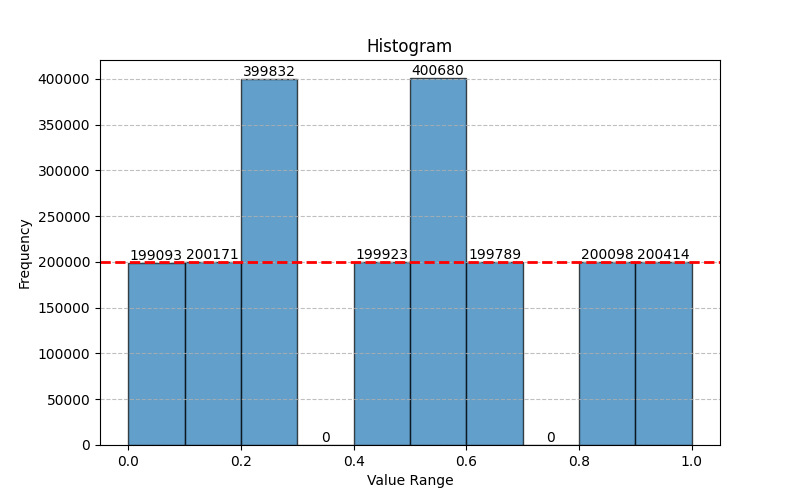
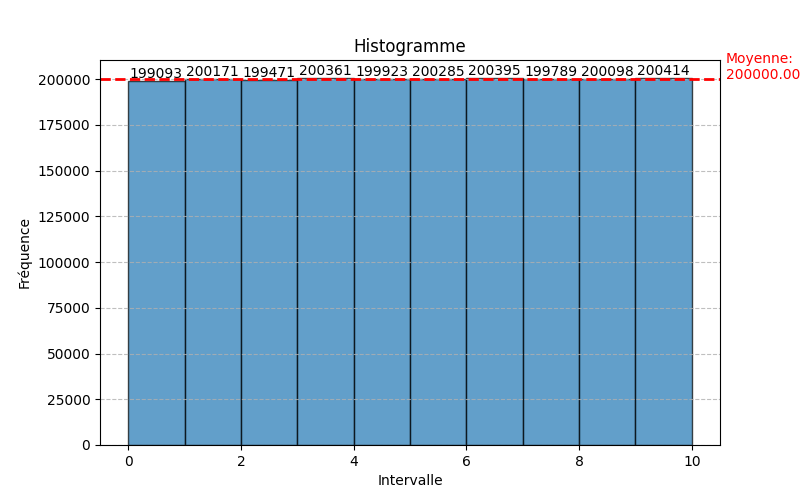
We needed more french in the print, title,... and also i change the khi_square so you just need to give the histogram and not a list

diff --git a/src/tests/kolmogorov_smirnov.py b/src/tests/kolmogorov_smirnov.py
@@ -9,9 +9,7 @@ class KolmogorovSmirnov:
      
     """
     
-    More informations:
-        H0: If KS > critical value -> The distribution follow the uniform law
-        H1: If KS <= critical value -> The distribution does not follow the uniform law
+
     """
     
     @staticmethod
@@ -23,50 +21,56 @@ class KolmogorovSmirnov:
             data (list): A list of observed values.
             alpha (float): Significance level (default is 0.05).
 
-        Prints:
-            Decision whether to reject or not reject H0.
+        More informations:
+            H0: If Dn ≤ critical value -> The distribution follow the uniform law (good). 
+            H1: If Dn > critical value -> The distribution does not follow the uniform law (not good).
         """
         
-        degree_freedom = len(data) - 1
+        degree_freedom = len(data)
         
         ks_value = KolmogorovSmirnov.compute(data = data)
         
         critical_value = stats.kstwo.ppf(1 - alpha, degree_freedom)
         
         if ks_value <= critical_value :
-            print("Distribution is close to uniform so it's good")
+            print("Verily, the distribution is well-balanced, as though guided by divine order !")
         else:
-            print("Distribution significantly differs from uniform so it's a big NO NO")
+            print("Verily, the distribution is corrupted and uneven, for the Deceiver hath sown disorder among the number !")
     
     
     @staticmethod
-    def compute(data: list) -> tuple:
+    def compute(data: list, save_plot: bool = True) -> tuple:
+        
         data = np.sort(data)
+        
         size = len(data)
-        count_values = Counter(data)
+        
+        count_values = dict(sorted(Counter(data).items()))
 
-        relative_frequency = np.array(list(count_values.values())) / size
+        observed_frequency = np.array(list(count_values.values())) / size
         
-        observed_distribution = np.cumsum(relative_frequency)
+        observed_cumulative_frequency = np.cumsum(observed_frequency)
         
-        theorical_distribution = np.arange(1, len(observed_distribution) + 1) / size
+        theorical_cumulative_frequency = np.arange(1, len(observed_cumulative_frequency) + 1) / len(observed_cumulative_frequency)
         
-        absolute_difference = np.abs(observed_distribution - theorical_distribution)
+        absolute_difference = np.abs(observed_cumulative_frequency - theorical_cumulative_frequency)
         
         max_diff_index = np.argmax(absolute_difference)
         
         ks_statistic = absolute_difference[max_diff_index]
 
-        KolmogorovSmirnov.__save_plot(list(count_values.keys()), 
-                                    observed_distribution = observed_distribution, 
-                                    theorical_distribution = theorical_distribution,
-                                    max_diff_index = max_diff_index
-                                    )
+        if (save_plot):
+            KolmogorovSmirnov.__save_plot(list(count_values.keys()), 
+                                        observed_cumulative_frequency = observed_cumulative_frequency, 
+                                        theorical_cumulative_frequency = theorical_cumulative_frequency,
+                                        max_diff_index = max_diff_index,
+                                        ks_statistic = ks_statistic
+                                        )
         
         return ks_statistic
     
     @staticmethod
-    def __save_plot(unique_values, observed_distribution, theorical_distribution, max_diff_index) -> None:
+    def __save_plot(unique_values, observed_cumulative_frequency, theorical_cumulative_frequency, max_diff_index, ks_statistic) -> None:
         """
         Plots the empirical CDF and the expected uniform CDF.
 
@@ -75,16 +79,20 @@ class KolmogorovSmirnov:
         """
 
         plt.figure(figsize=(8, 5))
-        plt.step(unique_values, observed_distribution, where="post", label="Empirical CDF", color="blue")
-        plt.plot(unique_values, theorical_distribution, linestyle="--", label="Theoretical CDF", color="red")
-
         
-        plt.vlines(unique_values[max_diff_index], theorical_distribution[max_diff_index], observed_distribution[max_diff_index], 
-                   colors="black", linestyles="dashed", label="Max Difference (D)")
+        plt.step(unique_values, observed_cumulative_frequency, where="post", label="Fréquence cumulée observée", color="blue")
+        
+        plt.plot(unique_values, theorical_cumulative_frequency, linestyle="--", label="Fréquence cumulée théorique", color="red")
+        
+        plt.annotate("", xy=(unique_values[max_diff_index], observed_cumulative_frequency[max_diff_index]), xytext=(unique_values[max_diff_index], theorical_cumulative_frequency[max_diff_index]),
+             arrowprops=dict(arrowstyle="<->", color='black', lw=2))
+        
+        plt.text(unique_values[max_diff_index], (observed_cumulative_frequency[max_diff_index] + theorical_cumulative_frequency[max_diff_index]) / 2, f' D={ks_statistic:.3f}', color='black', fontsize=12, 
+         verticalalignment='center', horizontalalignment='right')
 
-        plt.xlabel("Value Range")
-        plt.ylabel("Cumulative Probability")
-        plt.title("Kolmogorov-Smirnov Test: Empirical vs. Uniform CDF")
+        plt.xlabel("Intervalle")
+        plt.ylabel("Fréquence cumulée")
+        plt.title("Test de Kolmogorov-Smirnov")
         plt.legend()
         plt.grid()
 

diff --git a/src/tests/khi_square.py b/src/tests/khi_square.py
@@ -1,4 +1,5 @@
 import scipy.stats as stats
+from histogram import Histogram
 
 class KhiSquareTest:
     """
@@ -9,29 +10,33 @@ class KhiSquareTest:
     """
     
     @staticmethod
-    def is_goodness_fit(hist: list, alpha: float = 0.05) -> None:
+    def is_goodness_fit(histogram: Histogram, alpha: float = 0.05) -> None:
         """
         Computes the Chi-Square statistic for a given histogram and determine if
         the frequencies are following a the uniform law
 
         Args:
-            hist (list): A list of observed frequencies for each interval.
+            histogram (Histogram): A object containing usefull information like the frequency for each interval, the mean, etc.
+            alpha (float): The significance level used to determine the critical value for rejecting the H0. 
 
         Returns:
             float: The Chi-Square test statistic.
             
         More informations:
-            H0: If χ² ≤ critical value -> The distribution is close to uniform (good). 
-            H1: If X² > critical value -> The distribution significantly differs from uniform (not good).
+            H0: If χ² ≤ critical value -> The distribution follow the uniform law (good). 
+            H1: If X² > critical value -> The distribution does not follow the uniform law (not good).
 
         """
         
-        degree_freedom = len(hist) - 1
+        degree_freedom = histogram.num_interval - 1
         
-        chi_square = KhiSquareTest.compute(hist=hist)
+        expected = [histogram.mean] * histogram.num_interval
+        
+        chi_square = KhiSquareTest.compute(observed = histogram.observed, expected = expected)
         
         critical_value = stats.chi2.ppf(1 - alpha, degree_freedom)
         
+        print(chi_square, critical_value)
         if chi_square <= critical_value :
             print("Verily, the distribution is well-balanced, as though guided by divine order !")
         else:
@@ -39,45 +44,28 @@ class KhiSquareTest:
         
         
     @staticmethod
-    def compute(hist: list) -> float:
+    def compute(observed: list, expected: list) -> float:
         """
         Computes the Chi-Square statistic for a given histogram, assuming 
         a uniform expected distribution.
 
         Args:
-            hist (list): A list of observed frequencies for each interval.
+            observed (list): A list of observed frequencies for each interval.
+            expected (list): A list of expected frequencies for each interval.
 
         Returns:
             float: The Chi-Square test statistic.
 
         Example:
             >>> khi_test = KhiSquareTest()
-            >>> khi_test.from_distribution([10, 15, 12, 13])
+            >>> khi_test.compute([10, 15, 12, 13], [12.5, 12.5, 12.5, 12.5])
             1.04
-        """
-        
-        interval_nb = len(hist) 
-        total_obs = sum(hist)
-        expected = [total_obs / interval_nb] * interval_nb
-
-        return KhiSquareTest.__chi_square_stat(hist, expected)
-
-    @staticmethod
-    def __chi_square_stat(hist: list, expected: list):
-        """
-        Computes the Chi-Square statistic given observed and expected frequencies.
-
-        Args:
-            hist (list): A list of observed frequencies.
-            expected (list): A list of expected frequencies.
-
-        Returns:
-            float: The Chi-Square test statistic.
         """
         
         chi_square = 0
         
-        for observed, expected in zip(hist, expected):
+        for observed, expected in zip(observed, expected):
             chi_square += ((observed - expected) ** 2) / expected
-            
+        
         return chi_square
+        

diff --git a/src/histogram.py b/src/histogram.py
@@ -36,7 +36,7 @@ class Histogram:
         self.num_interval = num_interval
         self.range_min = range_min
         self.range_max = range_max
-        self.hist = [0] * num_interval
+        self.observed = [0] * num_interval
         self.mean = len(self.data)/self.num_interval
         
         self._create()
@@ -59,7 +59,7 @@ class Histogram:
             if index >= self.num_interval:
                 index = -1
 
-            self.hist[index] += 1
+            self.observed[index] += 1
         
             
     def save_plot(self, plot_type: PlotType = PlotType.HiSTOGRAM) -> None:
@@ -83,21 +83,21 @@ class Histogram:
         
         categories = [str(i/devider) for i in range(self.range_min, self.range_max)]
         
-        bars = plt.bar(categories, self.hist, edgecolor="black", alpha=0.7)
+        bars = plt.bar(categories, self.observed, edgecolor="black", alpha=0.7)
 
         for bar in bars:
             height = bar.get_height()
             plt.text(bar.get_x() + bar.get_width() / 2, height + 0.5,
                     str(height), ha='center', va='bottom', fontsize=10)
 
-        plt.xlabel("Values")
-        plt.ylabel("Frequency")
-        plt.title("Bar Chart")
+        plt.xlabel("Valeur")
+        plt.ylabel("Fréquence")
+        plt.title("Répartition des décimales")
         plt.grid(axis="y", linestyle="--", alpha=0.8)
 
         plt.axhline(self.mean, color='red', linestyle='dashed', linewidth=2)
         
-        plt.text(self.range_max + 0.6, self.mean, 'Mean:\n{:.2f}'.format(self.mean), color="red")
+        plt.text(self.range_max, self.mean, 'Moyenne:\n{:.2f}'.format(self.mean), color="red")
 
         plt.savefig(PathFinder.get_complet_path("images/my_bar.png"))
             
@@ -120,15 +120,15 @@ class Histogram:
             plt.text(bin_edge + (bins[1] - bins[0]) / 2, count + 0.5,
                     str(int(count)), ha='center', va='bottom', fontsize=10)
 
-        plt.xlabel("Value Range")
-        plt.ylabel("Frequency")
-        plt.title("Histogram")
+        plt.xlabel("Intervalle")
+        plt.ylabel("Fréquence")
+        plt.title("Histogramme")
         
         plt.grid(axis="y", linestyle="--", alpha=0.8)
 
         plt.axhline(self.mean, color='red', linestyle='dashed', linewidth=2)
         
-        plt.text(self.range_max + 0.6, self.mean, 'Mean:\n{:.2f}'.format(self.mean), color="red")
+        plt.text(self.range_max + 0.6, self.mean, 'Moyenne:\n{:.2f}'.format(self.mean), color="red")
         
         plt.savefig(PathFinder.get_complet_path("images/my_histogram.png"))
         

diff --git a/src/main.py b/src/main.py
@@ -1,5 +1,4 @@
 from histogram import Histogram, PlotType
-from tests.gap_test import GapTest
 from tests.coupon_collector_test import CouponCollectorTest
 from tests.poker_test import PokerTest
 from tests.khi_square import KhiSquareTest
@@ -11,7 +10,8 @@ from utils.path_finder import PathFinder
 def test_khi_square(histogram: list):
     
     print("\n ----------------------KHI SQUARE----------------------\n")
-    KhiSquareTest.is_goodness_fit(hist = histogram.hist)
+    
+    KhiSquareTest.is_goodness_fit(histogram = histogram)
 
 def test_kolmogorov_smirnov(data: list):
     
@@ -34,7 +34,7 @@ def global_test(data: list):
     print("\n ------------------Coupon Collector------------------\n")
 
     CouponCollectorTest.compute(data, 5)
-    gap = GapTest.compute(samples=data)
+    # gap = GapTest.compute(samples=data)
 
     print("\n -----------------End Test----------------\n")
 
@@ -48,27 +48,37 @@ def global_test(data: list):
     
 def decimal_test(file_path: str, num_interval: int = 10, range_max: int = 10):
     
+    print("\n ------------Start Decimal Test-----------\n")
+    
+    # GETTING ALL THE DECIMAL
+    
     iterator = EIterator(file_path = file_path)
     
     generator = EGenerator(iterator = iterator, num_decimals = 1, period = 1, prefix = "")
     
     data = generator.generate_all_value()
     
+    # GENERATE THE HISTOGRAM (BAR CHART)
+    
     histogram = Histogram(data = data, num_interval = num_interval, range_max = range_max)
     
     histogram.save_plot(plot_type = PlotType.BAR)
 
+    # KHI SQUARE TEST
+    
     test_khi_square(histogram = histogram)
+    
+    # KOLMOGOROV SMIRNOV TEST
+    
+    test_kolmogorov_smirnov(data = data)
+    
+    print("\n -------------End Decimal Test------------\n")
 
 if __name__ == "__main__":
     
     file_path = PathFinder.get_complet_path("files/e2M.txt")
 
-    iterator = EIterator(file_path=file_path)
-    generator = EGenerator(iterator=iterator, num_decimals=1, period=1)
-    data = generator.generate_all_value()
-
-    global_test(data)
+    # global_test(data)
 
     decimal_test(file_path = file_path)
 
